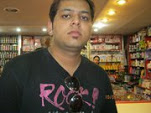
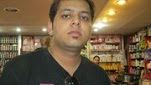
im

diff --git a/about.html b/about.html
@@ -182,7 +182,7 @@ The Workshop in its first stage will focus on First Udyot(Chapter) under the abl
           <div class="col-md-6 col-lg-4 mb-5 mb-lg-5" data-aos="fade-up" data-aos-delay="600">
             <div class="testimony text-center">
               <figure>
-                <img src="images/person_3.jpg" alt="Image" class="img-fluid">
+                <img src="images/piyush.jpg" alt="Image" class="img-fluid">
               </figure>
               <blockquote>
                 <p class="author mb-0">Piyush Parimoo</p>
